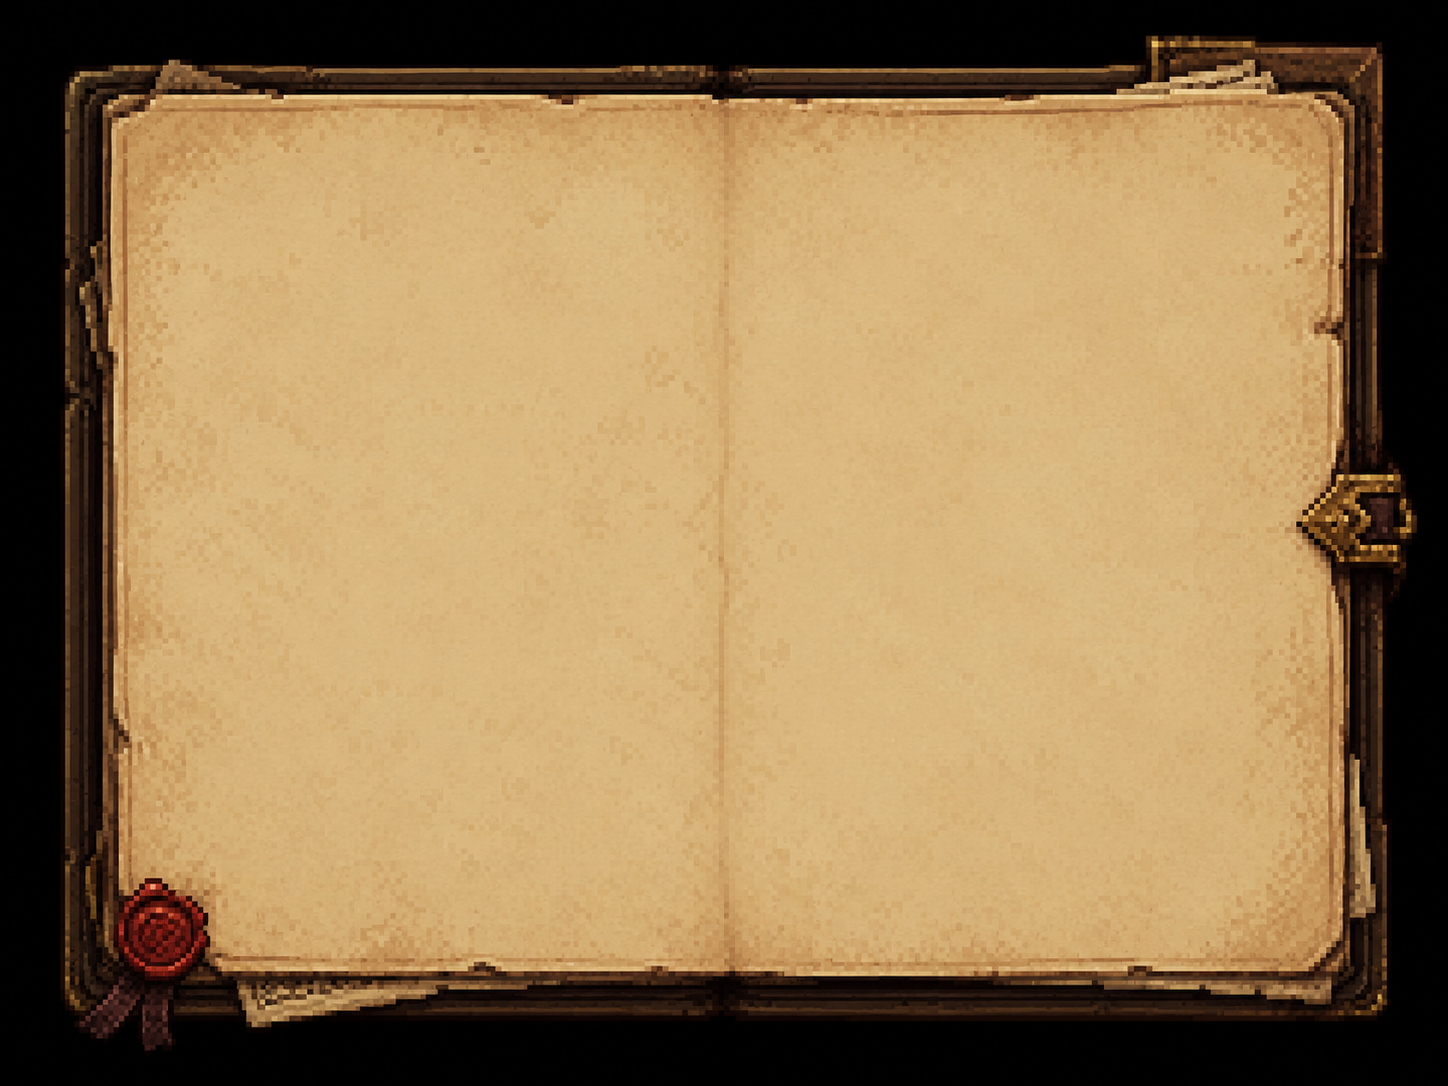
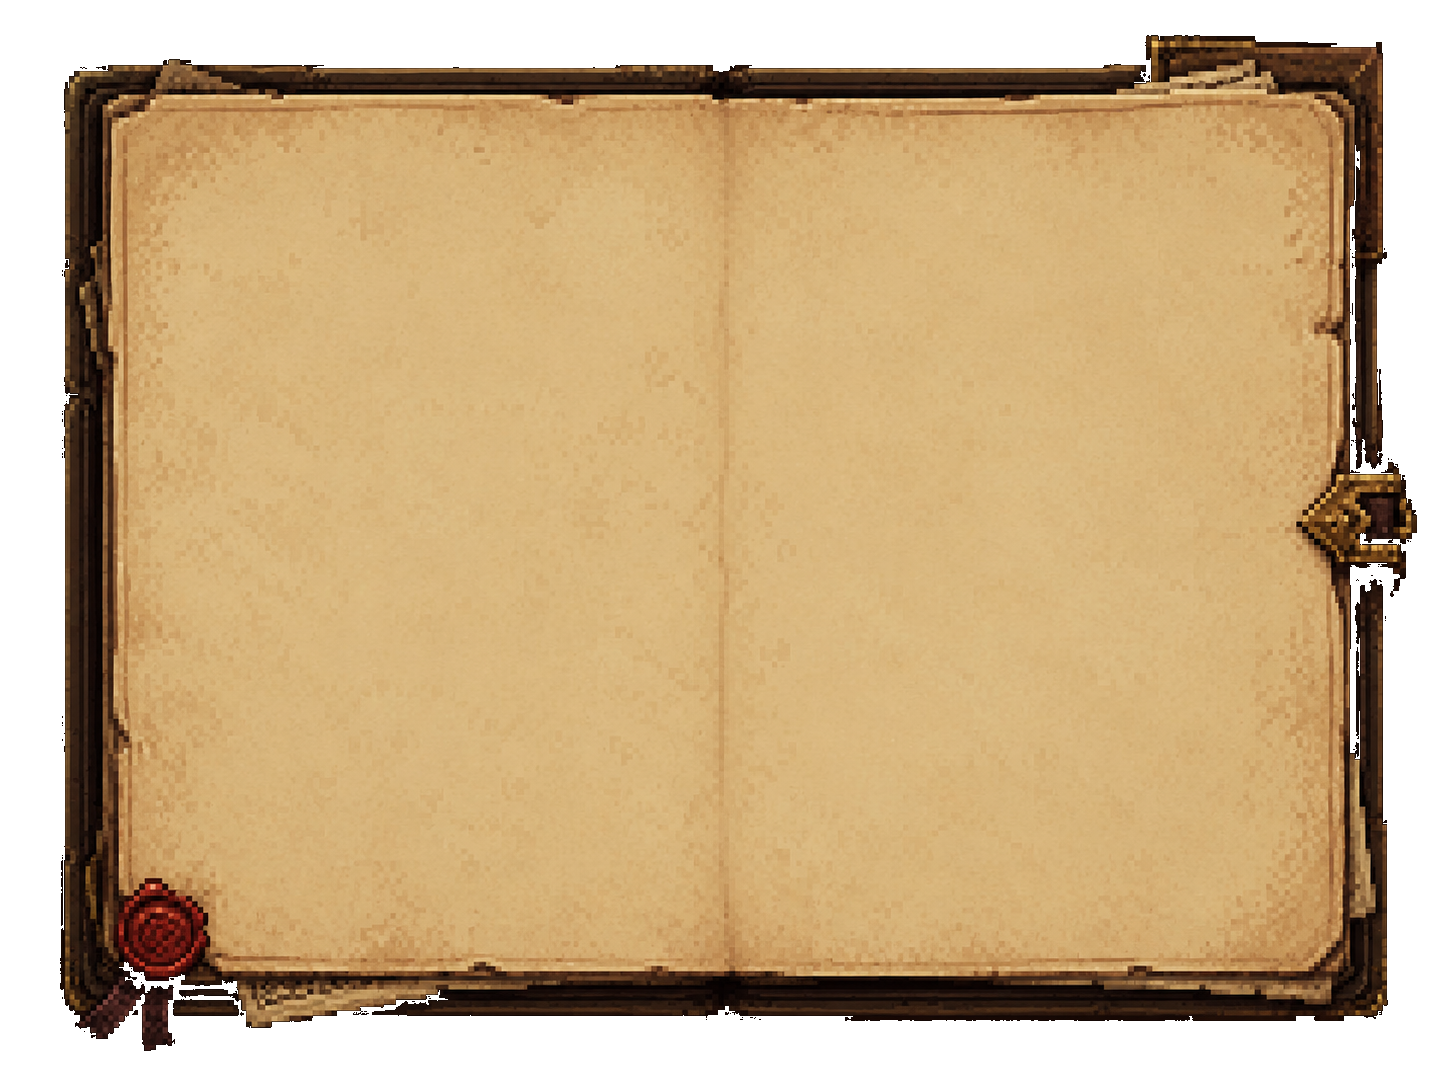
fix: はじめガイド閉じ直後の支給と表示の体感改善
ガイド終了でジャック／魔晶石を即つなぎ、セリフ下地と書籍BGの黒縁を直し、6ページ目ヘッダ位置を調整する。

Changed region(s): [[0.0, 0.0, 1.0, 1.0]]

diff --git a/docs/specs/core/03_Decision_Log.md b/docs/specs/core/03_Decision_Log.md
@@ -4889,6 +4889,17 @@ SSOT: `docs/specs/decisions/04_FieldSurveySlots.md`
 
 **SSOT:** `docs/specs/decisions/16_ValgardDescent.md`
 
+## 展示室オンライン閲覧の据置（2026-07-26 — P3-SHOWCASE-ONLINE-001）
+
+> **オーナー GO（案A）** — β／リリース仕上げでは実装しない。アップデート枠。
+
+| # | 決定 | 根拠 |
+|---|---|---|
+| P3-SHOWCASE-ONLINE-001-1 | **β範囲外** — 展示室は「自分の展示」「スタッフ作例」のまま | サーバー基盤が未整備 |
+| P3-SHOWCASE-ONLINE-001-2 | **将来案** — 「みんなの展示」タブ（自分とスタッフの間）＋自慢キャラのサーバー公開／閲覧 | オーナー要望 2026-07-26 |
+| P3-SHOWCASE-ONLINE-001-3 | **仮UI禁止** — 空タブ／準備中だけの先行配置はしない | 体験が薄くなるため |
+| P3-SHOWCASE-ONLINE-001-4 | **実装条件** — アカウント／公開ペイロード／荒らし対策／オフラインUX を Decision してから Task 化 | アーキテクチャ依存 |
+
 ## 降臨イベント専用報酬（2026-07-26 — P3-DG-EVENT-REWARD-001）
 
 > **オーナー GO** — クロノス／ヴァルガード降臨に専用武器・装飾・レリック。ボス主入手。深層未満。

diff --git a/docs/project/CurrentState.md b/docs/project/CurrentState.md
@@ -4,6 +4,8 @@
 
 ## Last Update
 
+2026-07-26（**はじめガイド儀式 GO**: 閉じ直後にジャック／魔晶石。セリフ下地不透明。書籍BGの黒四角除去。6Pヘッダ下げ。統合＋`main`）
+2026-07-26（**P3-SHOWCASE-ONLINE-001 Decision**: 展示室「みんなの展示」タブ＝β据置・アップデート枠。βは自分／スタッフのまま）
 2026-07-26（**鍛冶・導入・拠点誘導 GO**: 鍛冶完了ポップ統一／確認ダイアログ／炉研ぎ並び・SE。情報誌クリック誘導の点滅＋不透明下地。ジャック「ワンッ！」。世界観TAP後もクロール継続。ニーナ挨拶は画面どこでも次へ。統合＋`main`）
 2026-07-26（**P3-DG-EVENT-SET-001**: 降臨セット装備 — 時環の刻／アンティーク。レアリティ「セット」。3部位加護。専用レリック廃止）
 2026-07-26（**P3-DG-EVENT-REWARD-001**: 降臨専用報酬 — → **P3-DG-EVENT-SET-001 へ置換**）

diff --git a/docs/project/CurrentSprint.md b/docs/project/CurrentSprint.md
@@ -57,6 +57,7 @@
 
 | ID | 内容 |
 |---|---|
+| **P3-SHOWCASE-ONLINE-001** | 展示室「みんなの展示」（サーバー公開自慢）— β据置。空タブ先行なし |
 | P3-DG-UPDATE-002+ | ②ウィスパーウッド解禁（演出・文案・バランス確認） |
 | P3-BETA-002〜004 磨き | ③〜⑤の実機確認・アセット不足解消 |
 | P3-EQ-LEG-002 | 防具・装飾★ ②〜⑤横展開 |

diff --git a/docs/specs/core/05_Backlog.md b/docs/specs/core/05_Backlog.md
@@ -251,6 +251,7 @@
 
 | 機能 | 備考 / 想定移管 |
 |---|---|
+| **P3-SHOWCASE-ONLINE-001** 展示室「みんなの展示」 | β据置。サーバー公開自慢キャラ。自分／みんな／スタッフ3タブ。アップデート枠 |
 | Affix Reroll | Appraisal 一度きり（MVP） |
 | Legendary Affix 特殊ロジック | identity 演出 — Beta 以降 |
 | Curse Affix | MVP 対象外 |
